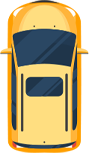
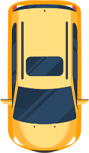
direção dos carros segundarios alteradas

diff --git a/main.py b/main.py
@@ -8,6 +8,7 @@ pygame.init()
 bg_road = pygame.image.load('img/bg_road.png')
 bg_gamer_over = pygame.image.load('img/bg_gamerover.png')
 
+#imagem do carros
 car1 = pygame.image.load("img/cars/car1.png")
 car2 = pygame.image.load("img/cars/car2.png")
 car4 = pygame.image.load("img/cars/car3.png")
@@ -171,6 +172,7 @@ while True:
             pos_y_car3 = randint(-5000,-3200)
             road_3 = cars[(randint(0, len(cars) - 1))]
 
+        #condiçoes no desenrolar do jogo
         if tempo_segundo == 15:
             speed_cars = 12
             speed = 20
